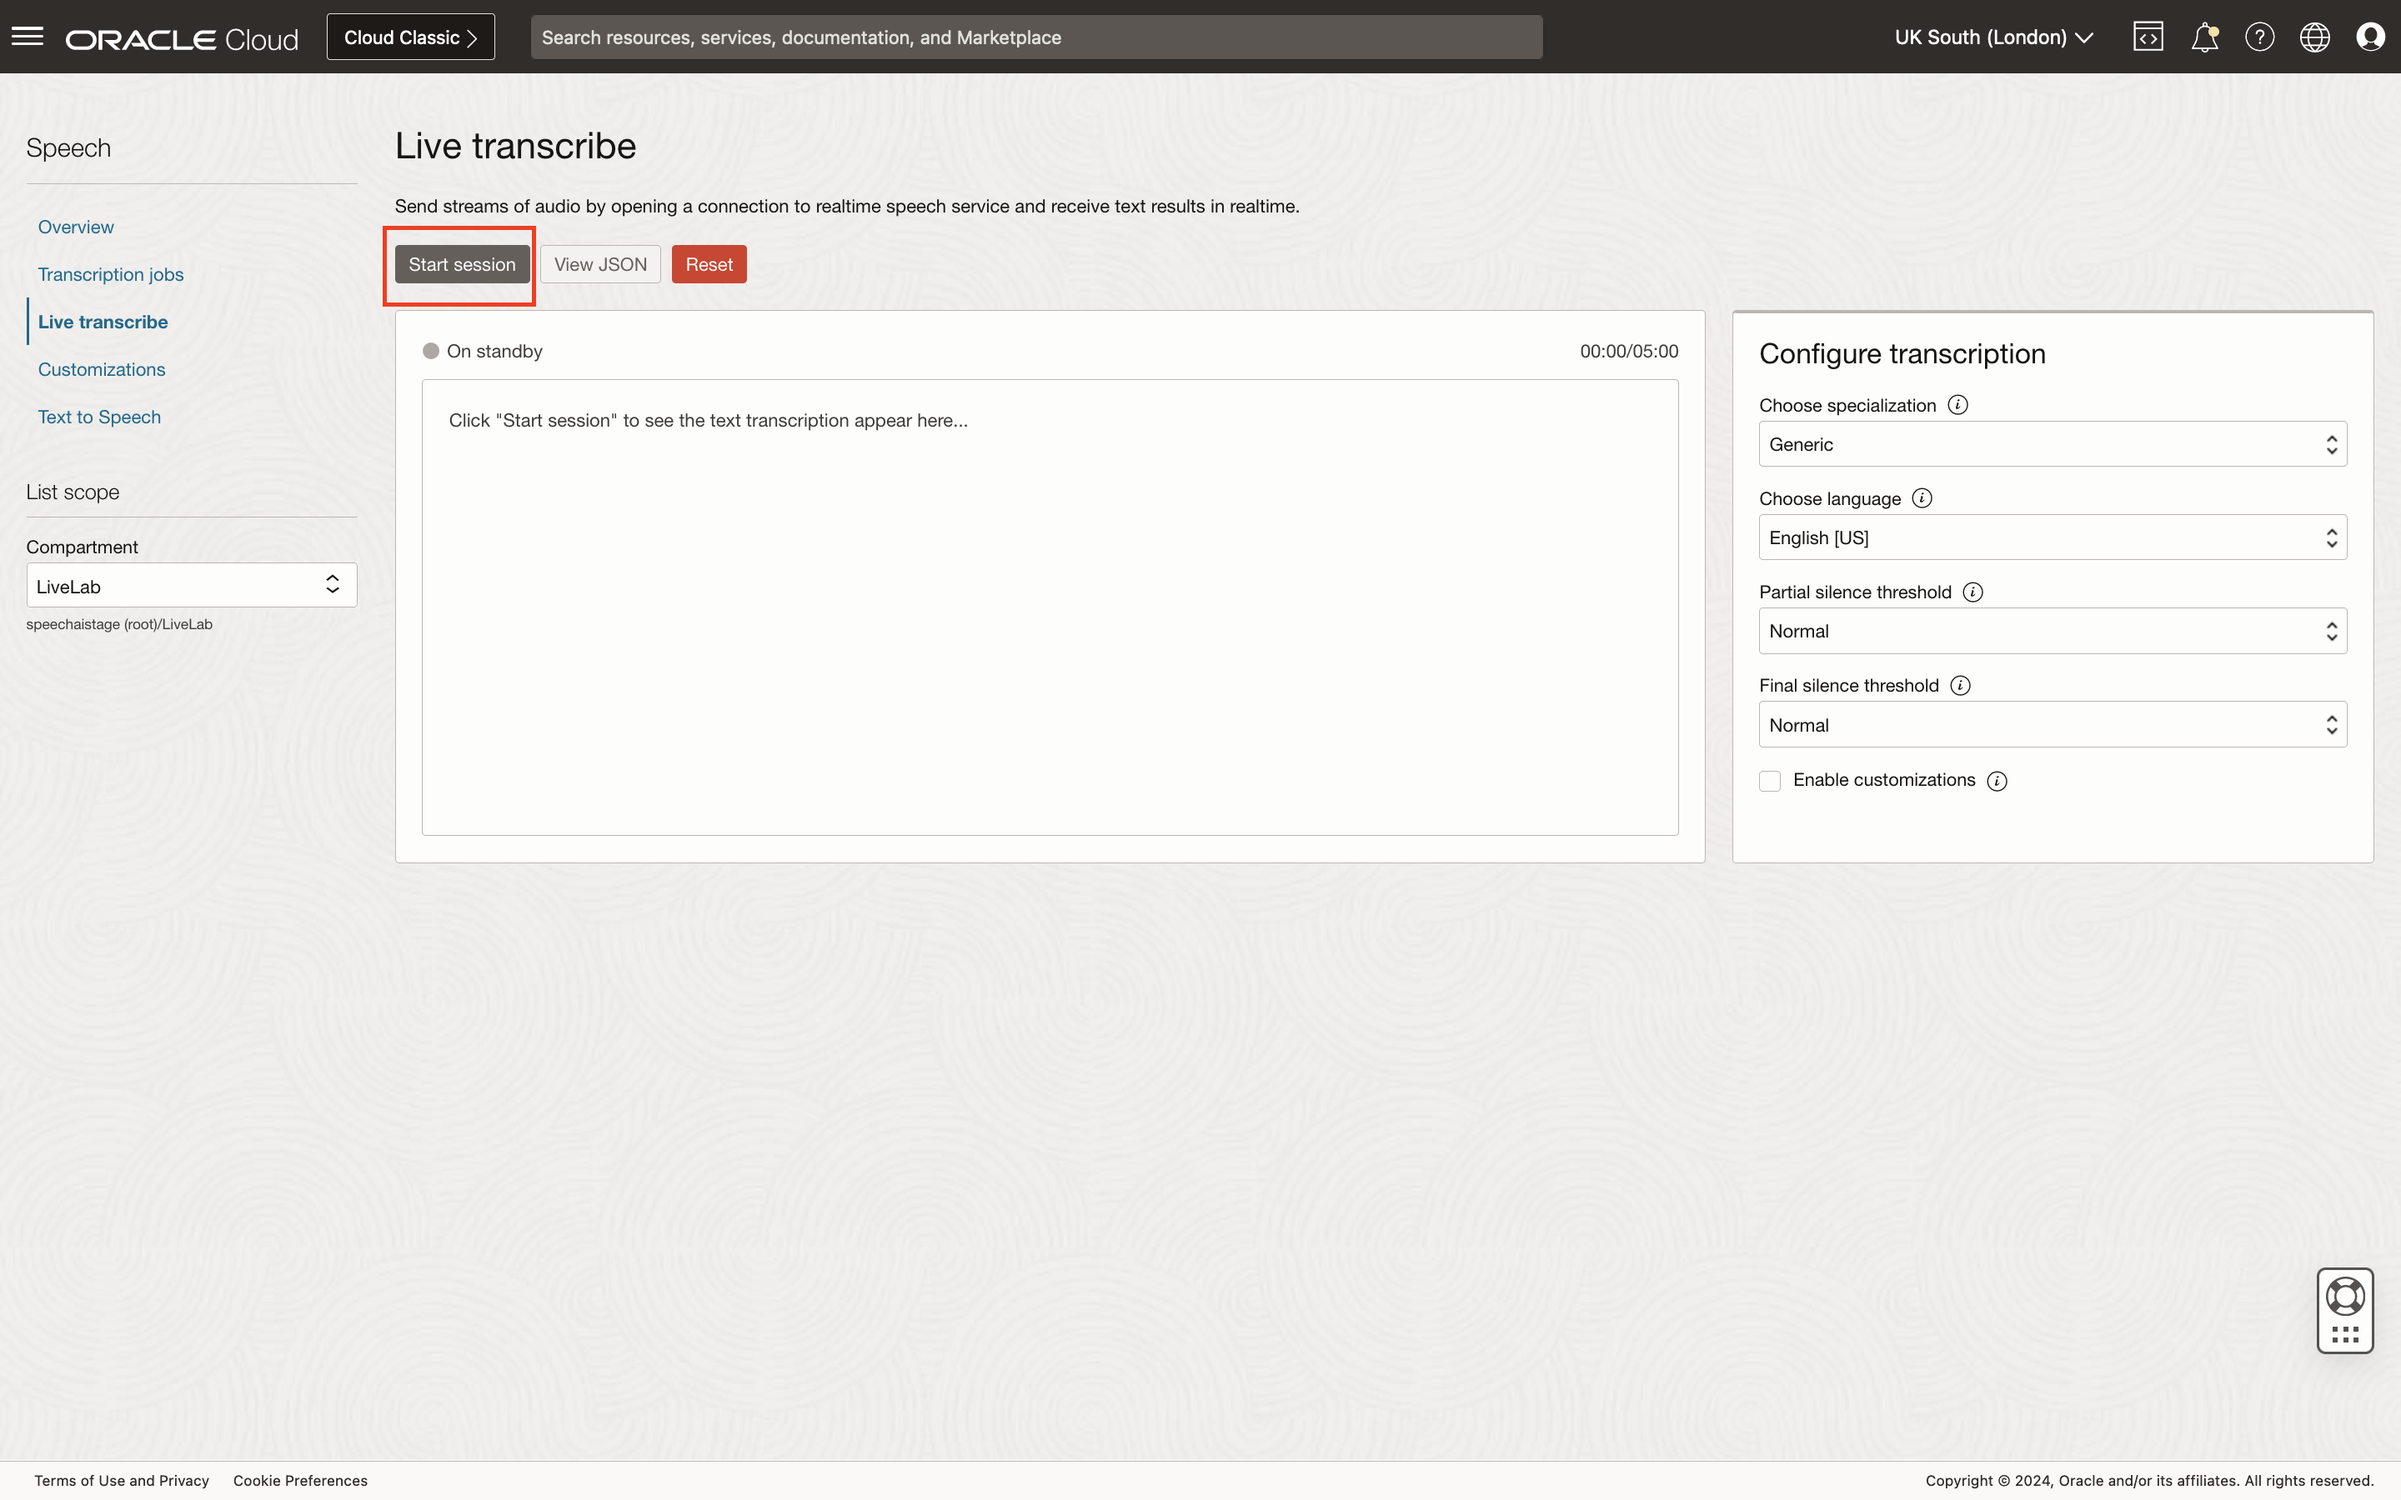
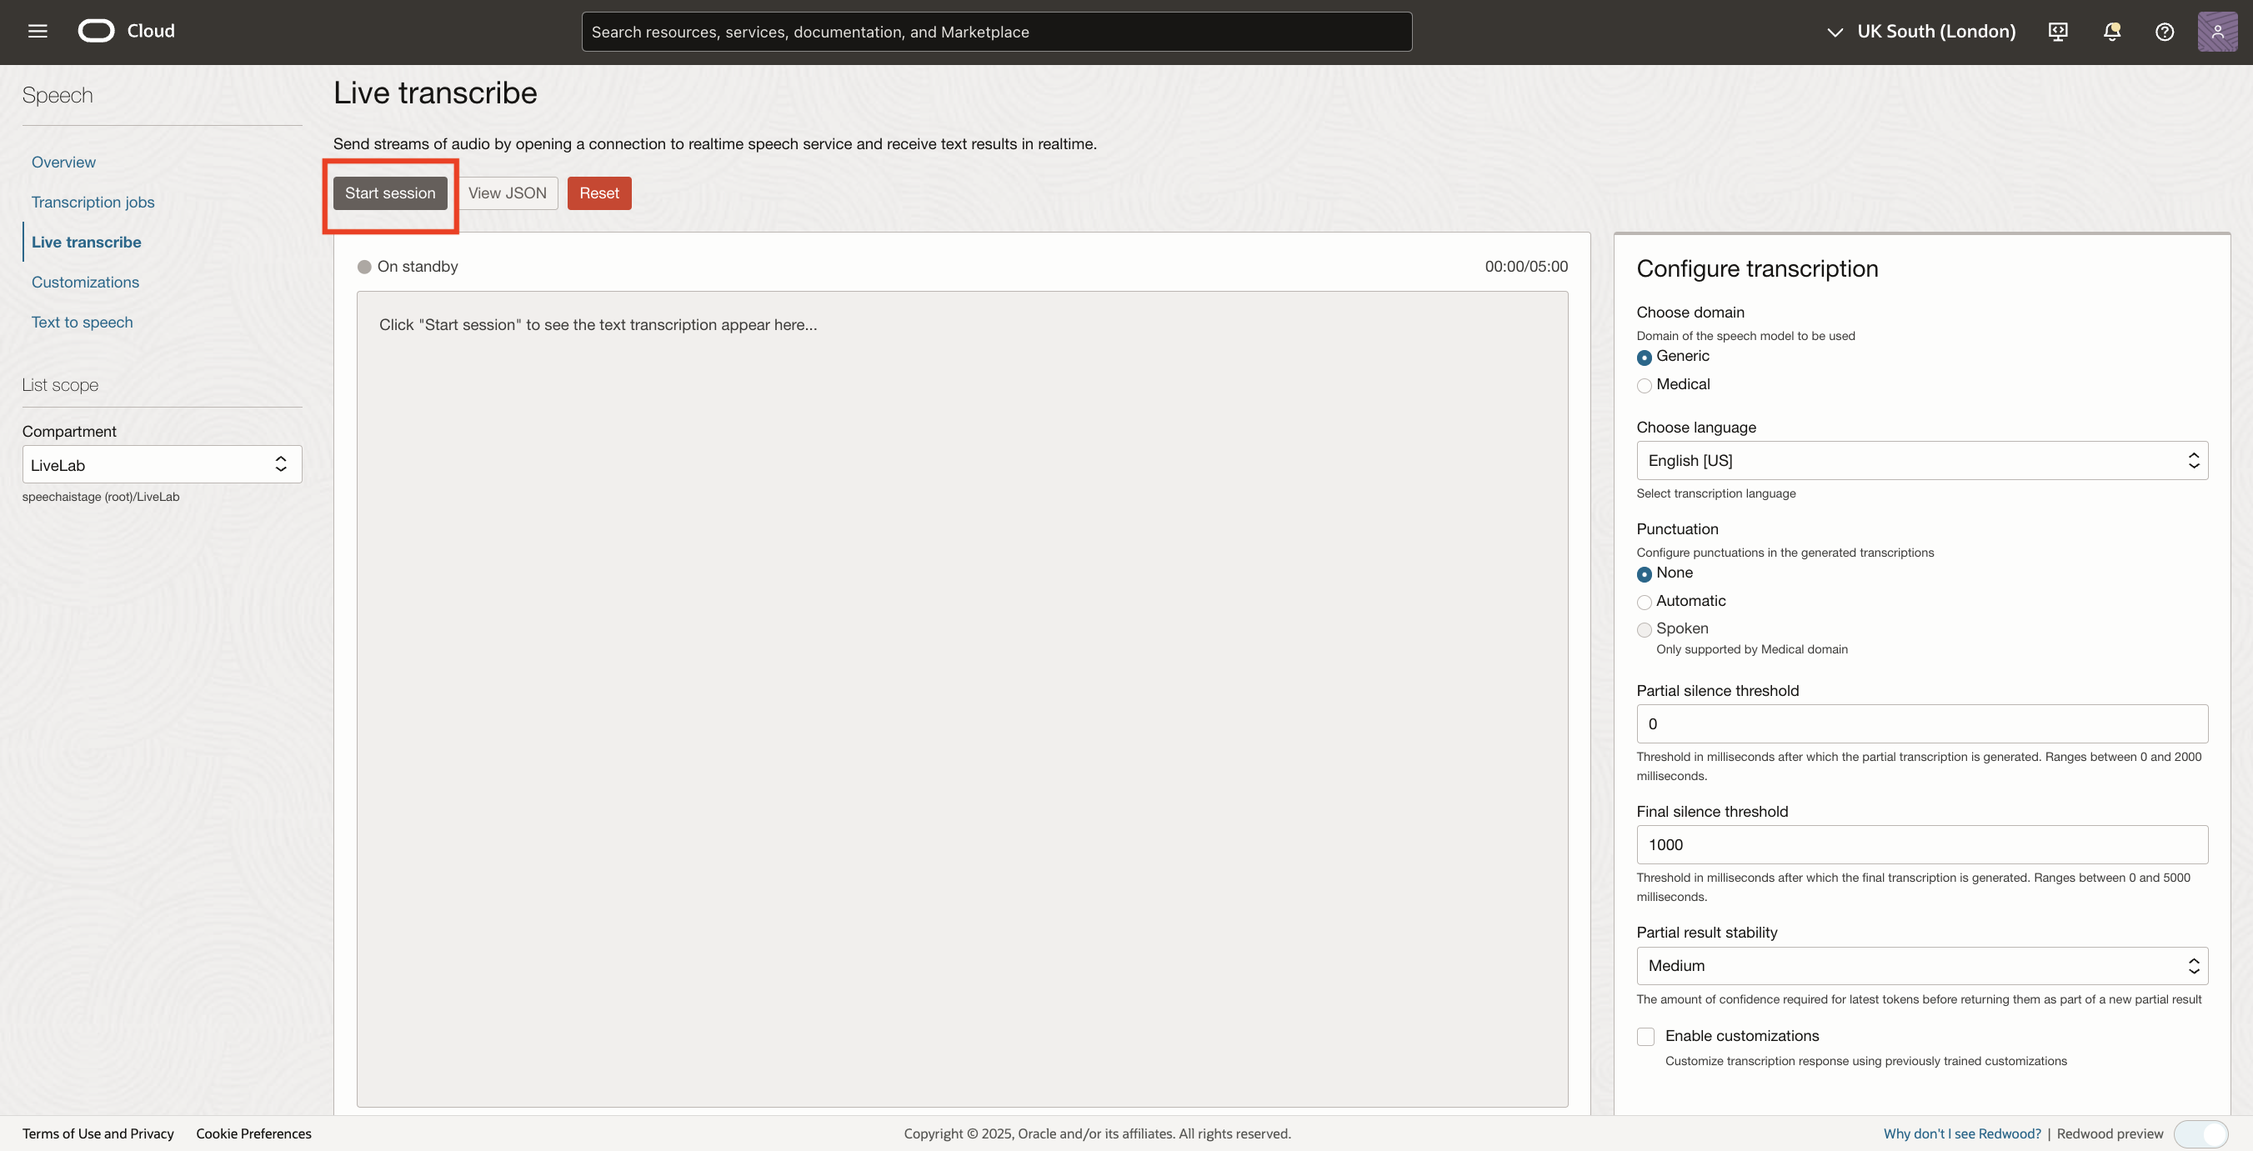
WMS ID 9001: Update livelabs with changes for punctuation in transcribe-live-audio (#375)
* made changes for punctuation

* added required changed to the import methods

* updated the parameters

* Resolved issues with markdown files in livelabs demo

diff --git a/oci-artificial-intelligence/ai-speech/transcribe-live-audio/files/realtime_example.py b/oci-artificial-intelligence/ai-speech/transcribe-live-audio/files/realtime_example.py
@@ -6,8 +6,11 @@ from oci.config import from_file
 from oci.auth.signers.security_token_signer import SecurityTokenSigner
 
 from oci.ai_speech_realtime import (
-    RealtimeClient,
-    RealtimeClientListener,
+    RealtimeSpeechClient, 
+    RealtimeSpeechClientListener
+)
+
+from oci.ai_speech.models import (
     RealtimeParameters,
 )
 
@@ -81,7 +84,7 @@ async def send_audio(client):
     # client.close()
 
 
-class MyListener(RealtimeClientListener):
+class MyListener(RealtimeSpeechClientListener):
     def on_result(self, result):
         if result["transcriptions"][0]["isFinal"]:
             logger.info(
@@ -121,6 +124,9 @@ if __name__ == "__main__":
     realtime_speech_parameters.partial_silence_threshold_in_ms = 0
     realtime_speech_parameters.final_silence_threshold_in_ms = 2000
     # realtime_speech_parameters.encoding="audio/raw;rate=16000"
+    realtime_speech_parameters.punctuation = (
+        realtime_speech_parameters.PUNCTUATION_AUTO
+    )
     realtime_speech_parameters.should_ignore_invalid_customizations = False
     realtime_speech_parameters.stabilize_partial_results = (
         realtime_speech_parameters.STABILIZE_PARTIAL_RESULTS_NONE
@@ -140,8 +146,8 @@ if __name__ == "__main__":
     #     }
     # ]
 
-    realtime_speech_url = "wss://realtime.aiservice-preprod.uk-london-1.oci.oraclecloud.com"
-    client = RealtimeClient(
+    realtime_speech_url = "wss://realtime.aiservice-preprod.ap-sydney-1.oci.oraclecloud.com"
+    client =  RealtimeSpeechClient(
             realtime_speech_parameters=realtime_speech_parameters,
             config=config,
             listener=MyListener(),

diff --git a/oci-artificial-intelligence/ai-speech/transcribe-live-audio/transcribe-live-audio.md b/oci-artificial-intelligence/ai-speech/transcribe-live-audio/transcribe-live-audio.md
@@ -52,15 +52,19 @@ To change transcription parameters, look to the <strong>Configure transcription<
     and enable customizations
         ![Configure transcription](./images/configure-transcription.png " ")
 
-    <strong>Choose specialization:</strong> Use this parameter to configure the transcription model for specialized audio, e.g. audio that features specific medial terminology
+    <strong>Choose domain:</strong> Use this parameter to configure the transcription model for specialized audio, e.g. audio that features specific medial terminology
     
     <strong>Choose language:</strong> Use this parameter to configure the language of the speaker
-    
+
+    <strong>Choose punctuation:</strong> Use this parameter to configure the punctuation mode for the transcription model
+
     <strong>Partial silence threshold:</strong> Use this parameter to configure how quickly partial results should be 
     returned
     
     <strong>Final silence threshold:</strong> Use this parameter to configure how long to wait before a partial result is finalized 
-    
+
+    <strong>Partial results stability:</strong> Use this parameter to configure the stability of partial results (amount of confidence required before returning a partial result)
+
     <strong>Enable customizations:</strong> Check this box to choose a customization to use during your transcription session
 
 ## Task 4: Enabling a customization
@@ -173,13 +177,15 @@ class MyRealtimeListener(RealtimeClientListener):
 
 `language_code` : <strong>"en-US"</strong>
 
-`model_domain` : <strong>"MEDICAL"</strong>
+`model_domain` : <strong>"GENERIC"</strong>
 
 `partial_silence_threshold_in_ms` : <strong>500</strong>
 
 `final_silence_threshold_in_ms` : <strong>2000</strong>
 
 `encoding` : <strong>"audio/raw;rate=16000"</strong>
+
+`punctuation` : <strong>AUTO</strong>
 
 `should_ignore_invalid_customizations` : <strong>True</strong>
 
@@ -198,6 +204,10 @@ realtime_speech_parameters.model_domain = (
 realtime_speech_parameters.partial_silence_threshold_in_ms = 0
 realtime_speech_parameters.final_silence_threshold_in_ms = 2000
 realtime_speech_parameters.encoding="audio/raw;rate=16000"
+realtime_speech_parameters.punctuation = (
+    realtime_speech_parameters.PUNCTUATION_AUTO
+)
+
 realtime_speech_parameters.should_ignore_invalid_customizations = False
 realtime_speech_parameters.stabilize_partial_results = (
     realtime_speech_parameters.STABILIZE_PARTIAL_RESULTS_NONE

diff --git a/oci-artificial-intelligence/ai-speech/oci-speech-faas/oci-speech-faas.md b/oci-artificial-intelligence/ai-speech/oci-speech-faas/oci-speech-faas.md
@@ -1,8 +1,4 @@
-<<<<<<< HEAD
 # Lab 10: Trigger functions for OCI speech transcription jobs (Optional)
-=======
-# Lab 9: Trigger functions for OCI speech transcription jobs (Optional)
->>>>>>> upstream/main
 
 ## Introduction
 

diff --git a/oci-artificial-intelligence/ai-speech/oci-speech-notifications/oci-speech-notifications.md b/oci-artificial-intelligence/ai-speech/oci-speech-notifications/oci-speech-notifications.md
@@ -1,8 +1,4 @@
-<<<<<<< HEAD
 # Lab 9: Enable notifications for OCI speech transcription jobs
-=======
-# Lab 8: Enable notifications for OCI speech transcription jobs
->>>>>>> upstream/main
 
 ## Introduction
 
